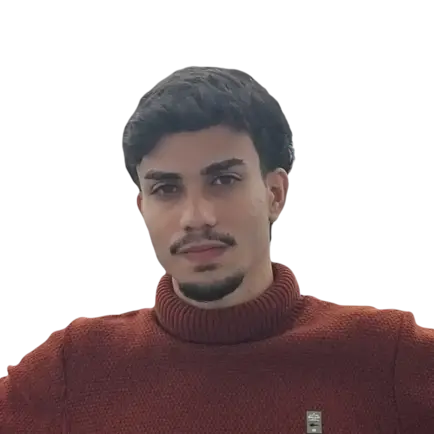
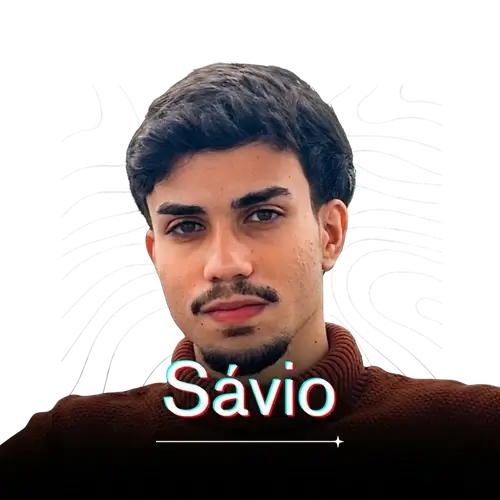
fix: new hero cover image

diff --git a/src/components/Hero.tsx b/src/components/Hero.tsx
@@ -25,32 +25,48 @@ export function Hero() {
         
         {/* Profile Image - Glass Container */}
         <div className="order-1 lg:order-2 flex justify-center relative">
-            {/* Decorative Rings */}
-            <div className="absolute inset-0 border border-accent/20 rounded-full scale-105 animate-pulse"></div>
-            <div className="absolute inset-0 border border-accent/10 rounded-full scale-125 delay-75"></div>
             
-            <div className="relative w-48 h-48 sm:w-64 sm:h-64 lg:w-80 lg:h-80 rounded-full overflow-hidden border-4 border-glass backdrop-blur-sm bg-glass-secondary shadow-glow-accent">
+            <div className="relative overflow-hidden">
                 <picture>
-                    <source media="(max-width: 768px)" srcSet="/capa_portifolio_mob.webp" />
-                    <source media="(min-width: 769px)" srcSet="/capa_portifolio.webp" />
+                    {/* Mobile: 500x500px, 55 KB */}
+                    <source 
+                        media="(max-width: 768px)" 
+                        srcSet="/capa_portifolio_mob.webp" 
+                        type="image/webp"
+                        width="500"
+                        height="500"
+                    />
+                    {/* Desktop: 800x800px, 109 KB */}
+                    <source 
+                        media="(min-width: 769px)" 
+                        srcSet="/capa_portifolio_desk.webp" 
+                        type="image/webp"
+                        width="800"
+                        height="800"
+                    />
+                    {/* Fallback */}
                     <img 
-                        src="/capa_portifolio.webp" 
+                        src="/capa_portifolio_desk.webp" 
                         alt="Sávio Profile" 
-                        width={434}
-                        height={434}
+                        width={800}
+                        height={800}
                         loading="eager"
-                        className="w-full h-full object-cover"
+                        className="w-full h-full object-contain"
                     />
                 </picture>
+                <div 
+                    className="block absolute inset-0 pointer-events-none"
+                    style={{
+                        background: `
+                            linear-gradient(to bottom, rgba(0,0,0,1) 0%, transparent 15%),
+                            linear-gradient(to top, rgba(0,0,0,1) 0%, transparent 15%),
+                            linear-gradient(to right, rgba(0,0,0,1) 0%, transparent 15%),
+                            linear-gradient(to left, rgba(0,0,0,1) 0%, transparent 15%)
+                        `
+                    }}
+                />
             </div>
         </div>
-        
-      </div>
-      
-      {/* Scroll Indicator */}
-      <div className="hidden lg:flex absolute bottom-10 animate-bounce text-text-disabled text-sm font-body font-light tracking-widest flex-col items-center gap-2">
-        SCROLL TO EXPLORE
-        <div className="w-[1px] h-12 bg-gradient-to-b from-accent to-transparent"></div>
       </div>
     </section>
   )
